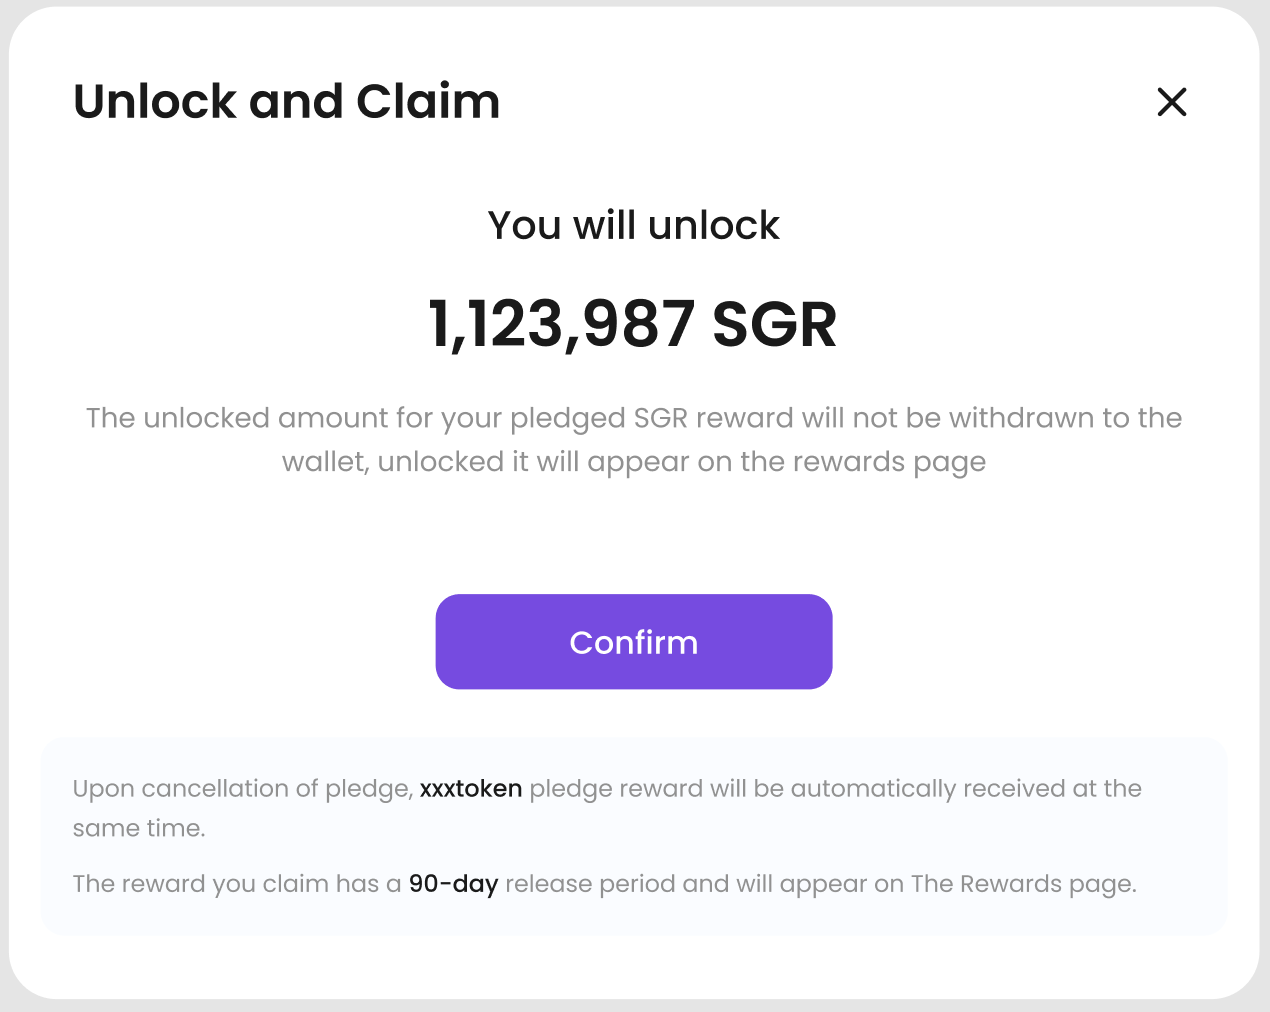
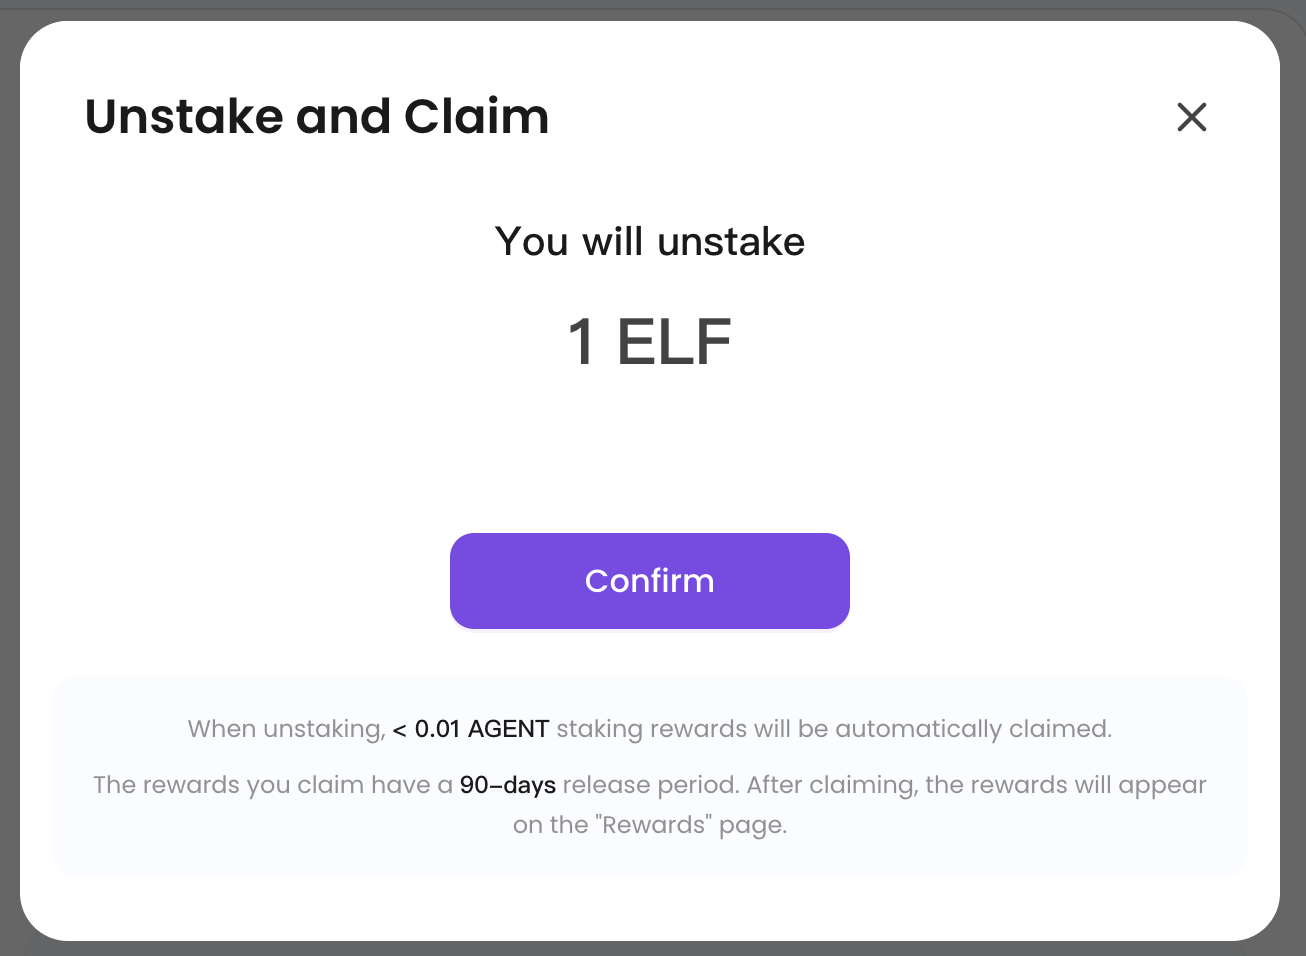
feat: replace pic

diff --git a/docs/simple-staking/index.md b/docs/simple-staking/index.md
@@ -62,11 +62,11 @@ description: Simple Staking
 
 ### 4.5 **Unstake**
 
--   After the stake duration ends, you can unlock the fixed-term mining pool during the 7-day unlocking period (grace period). Select the fixed-term mining pool you wish to unlock, then click the ‘Unlock’ button.
+-   After the stake duration ends, you can unstake the fixed-term mining pool during the 7-day unstaking period (grace period). Select the fixed-term mining pool you wish to unstake, then click the ‘Unstake’ button.
 
 ![](/img/4.2.5.1.png)
 
--   Confirm the unlocking details, including claiming rewards at the same time. Click the “Confirm” button to proceed. Rewards claimed have a 90-day release period, and details can be viewed on the “Rewards” page.
+-   Confirm the unstaking details, including claiming rewards simultaneously. Click ‘Confirm’ to proceed. Claimed rewards have a 90-day release period, and details can be viewed on the ‘Rewards’ page.
 
 ![](/img/4.2.5.2.png)
 
